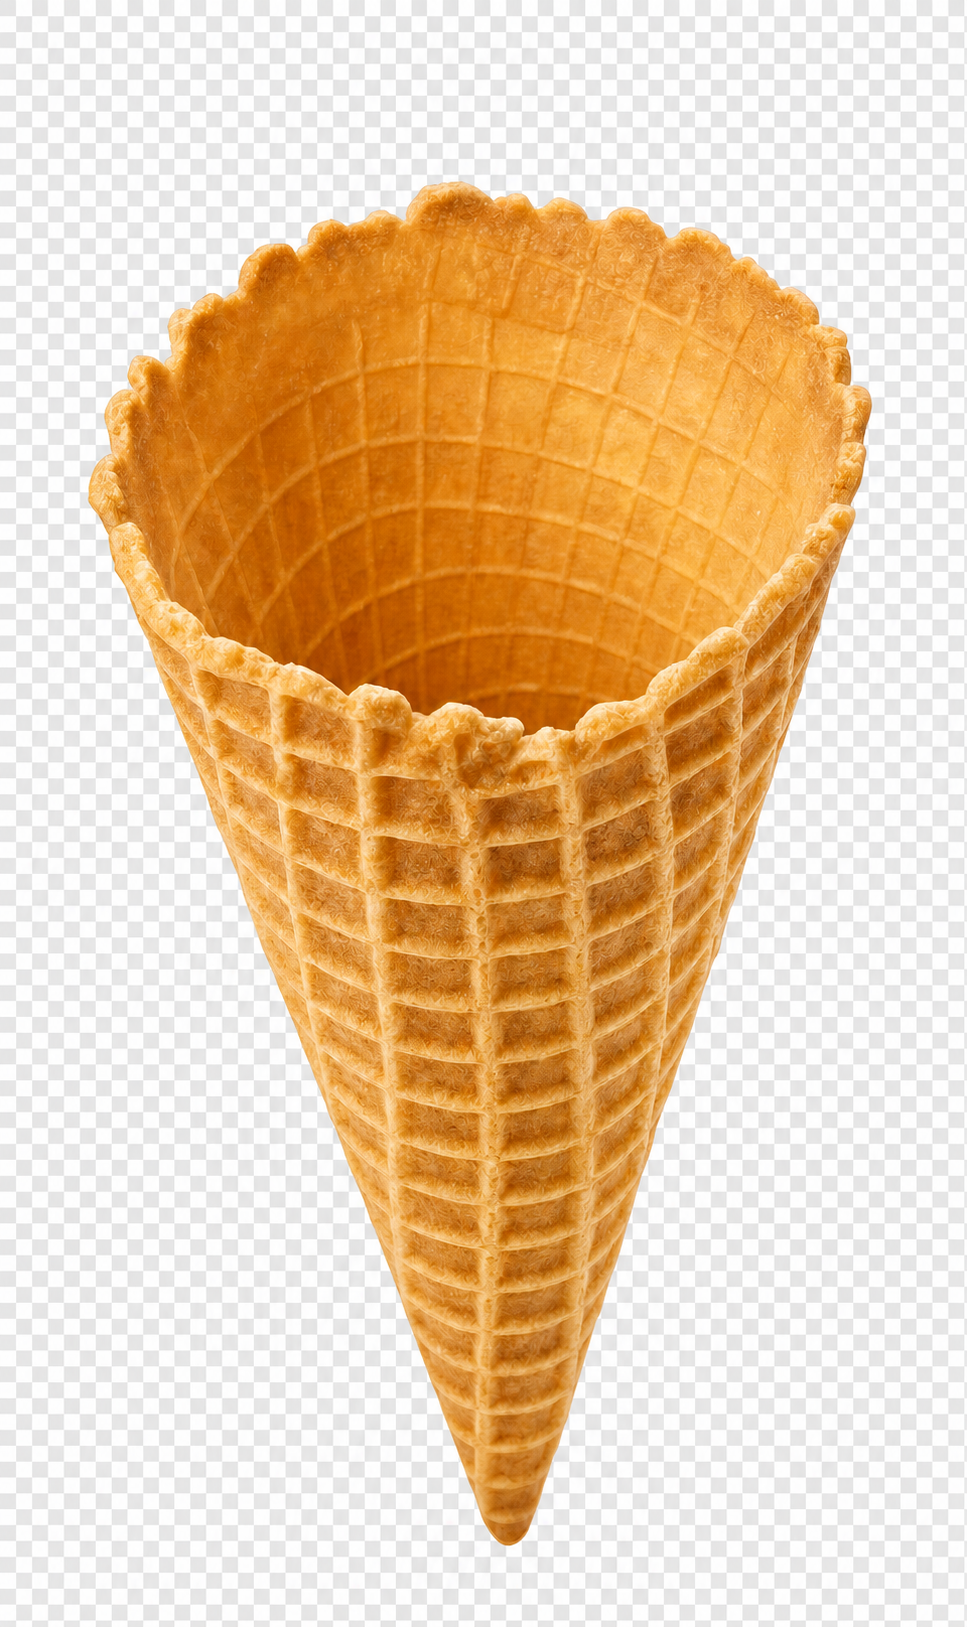
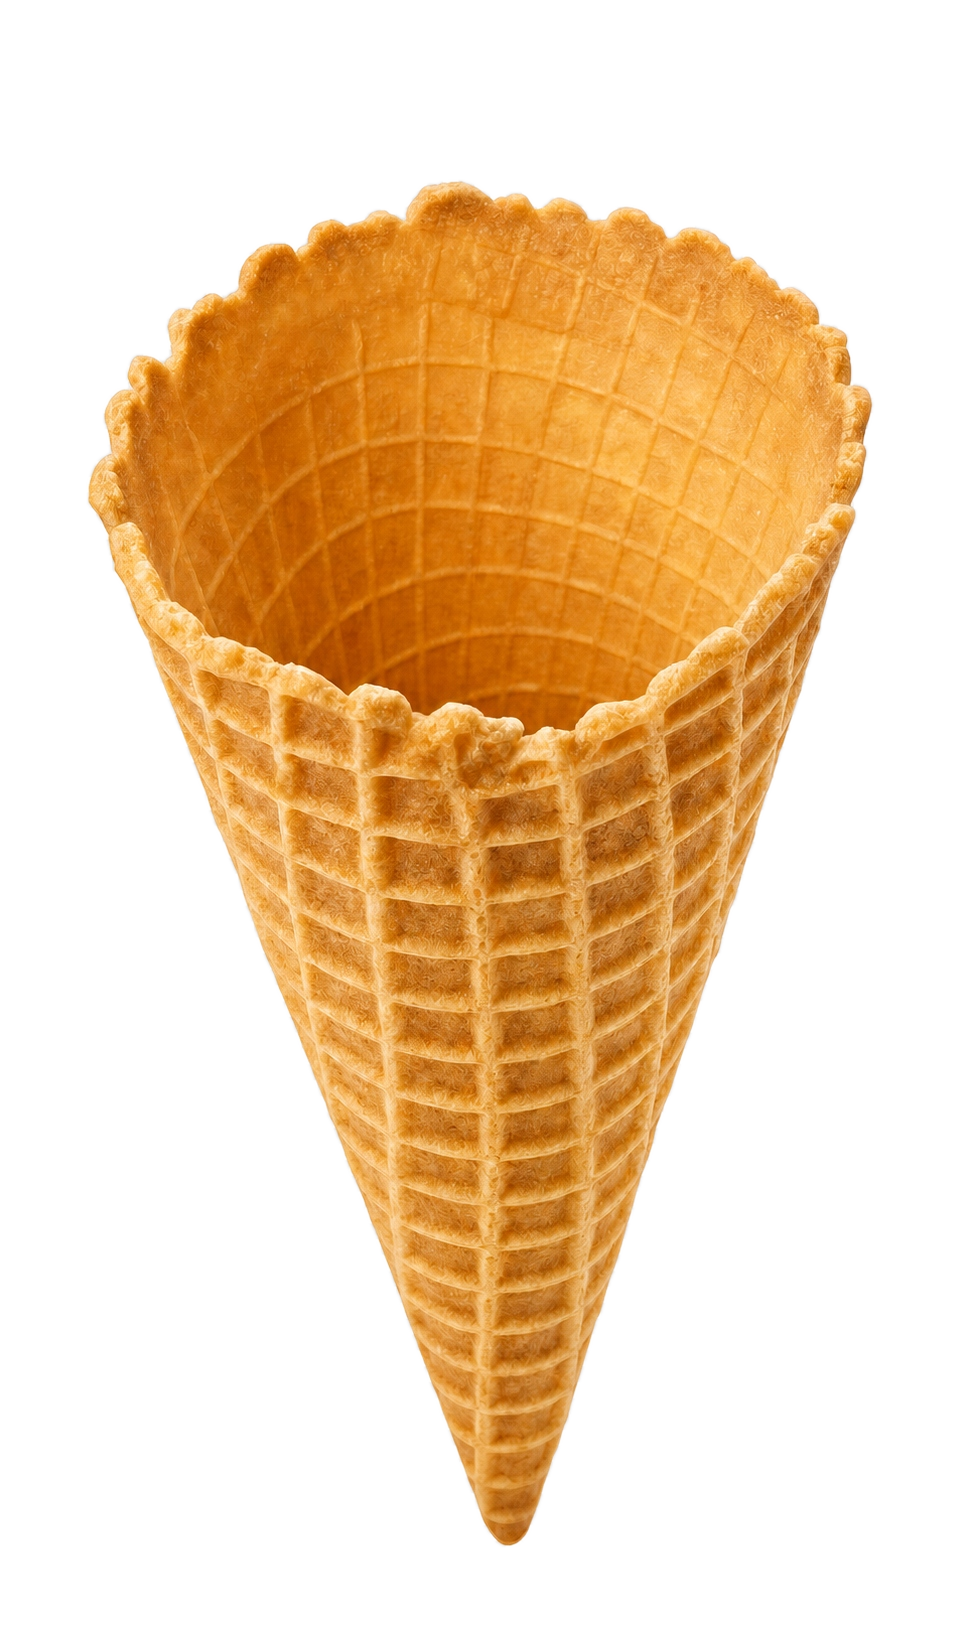
feature/02-page: фикс промпта: мобилка версия 3/0

Changed region(s): [[0.0, 0.0, 1.0, 1.0]]

diff --git a/css/style.css b/css/style.css
@@ -85,7 +85,7 @@
   --space-12: 96px;
 
   /* Radius */
-  --radius-block: 96px;
+  --radius-block: clamp(40px, 8vw + 16px, 96px);
   --radius-round: 50%;
   --radius-pill: 9999px;
 
@@ -319,7 +319,7 @@ button {
   font-family: var(--font-display);
   font-weight: 700;
   font-size: var(--text-h1-mobile);
-  line-height: var(--leading-tight);
+  line-height: var(--leading-snug);
   letter-spacing: var(--tracking-h1);
   text-transform: uppercase;
   text-align: center;
@@ -377,9 +377,9 @@ button {
 
 /* The flavor grid keeps the container max-width + inner gutters, centered. */
 .catalog__list {
-  max-width: 1500px;
-  margin-inline: auto;
-  padding-inline: var(--space-container);
+  max-width: none;
+  margin-inline: 0;
+  padding-inline: 0;
 }
 
 .catalog__pill {
@@ -405,7 +405,7 @@ button {
 .catalog__list {
   display: grid;
   grid-template-columns: repeat(2, 1fr);
-  gap: var(--space-6) var(--space-3);
+  gap: 0;
 }
 
 /* ---- card (flavor) ---- */
@@ -440,8 +440,10 @@ button {
 .card__media {
   order: -1;
   position: relative;
-  width: var(--size-ice-cream-mobile);
-  height: var(--size-ice-cream-mobile);
+  width: 100%;
+  max-width: clamp(150px, 36vw, 277px);
+  height: auto;
+  aspect-ratio: 1;
   border-radius: var(--radius-round);
   overflow: hidden;
   background: var(--gradient-scoop-sheen),
@@ -836,12 +838,123 @@ button {
 }
 
 
+
+/* =========================================================
+   Mobile (<=767): two-column layout + flavor slider
+   ========================================================= */
+@media (max-width: 767px) {
+  /* Full-bleed slider with an EXACT half-card peek on both sides at any width.
+     Everything is derived from a single card-width var so the visible fraction
+     of the neighbouring scoops never drifts when the screen resizes. */
+  .catalog__list {
+    --slide-card: 64vw;            /* width of one card */
+    --slide-gap: var(--space-3);   /* gap between cards */
+    display: flex;
+    gap: var(--slide-gap);
+    /* Side gutter = half a card + one gap, so a snapped card is centered and
+       exactly half of each neighbour shows past the screen edges. */
+    padding-inline: calc(var(--slide-card) / 2 + var(--slide-gap));
+    overflow-x: auto;
+    scroll-snap-type: x mandatory;
+    scroll-behavior: smooth;
+    -webkit-overflow-scrolling: touch;
+    /* Hide the horizontal scrollbar (Firefox/IE + WebKit below). */
+    scrollbar-width: none;
+    -ms-overflow-style: none;
+  }
+
+  .catalog__list::-webkit-scrollbar {
+    display: none;
+  }
+
+  .catalog__card {
+    flex: 0 0 var(--slide-card);
+    scroll-snap-align: center;
+  }
+
+  /* ---- mobile fine-tuning ---- */
+  /* The pink slider panel has no rounded corners on mobile. */
+  .catalog__panel {
+    border-radius: 0;
+  }
+
+  /* Build button spans the full window width. */
+  .builder__button {
+    max-width: none;
+  }
+
+  /* Builder total price sits in the flow, ~32px above the button. */
+  .builder__price {
+    position: static;
+    top: auto;
+    left: auto;
+    margin-bottom: var(--space-4);
+    text-align: center;
+  }
+
+  /* Slider card width. */
+  .catalog__list {
+    --slide-card: 50vw;
+  }
+
+  /* Card: no outer margins; title spaced 16px under the image. */
+  .card {
+    margin: 0;
+  }
+
+  .card__title {
+    margin-top: var(--space-2);
+  }
+
+  /* Price plate: 24px up from the photo bottom, flush to the side (left 0). */
+  .card__price {
+    left: 0;
+    bottom: 24px;
+  }
+
+  /* Slider list: small vertical margins (32px top & bottom). */
+  .catalog__list {
+    margin-block: var(--space-4);
+  }
+}
+
+
 /* =========================================================
    Tablet — 768+
    ========================================================= */
 @media (min-width: 768px) {
   :root {
     --space-container: 64px;
+  }
+
+  /* Two columns from tablet up: builder on the right, catalog on the left,
+     builder stretched to the full row height. */
+  .catalog__inner {
+    flex-direction: row-reverse;
+    align-items: stretch;
+    gap: var(--space-6);
+  }
+
+  .catalog__builder {
+    flex: 0 0 300px;
+    display: flex;
+    flex-direction: column;
+    justify-content: center;
+  }
+
+  .catalog__panel {
+    flex: 1 1 auto;
+  }
+
+  /* Flavor list returns to a static grid (no slider) from tablet up. */
+  .catalog__list {
+    display: grid;
+    padding-inline: 0;
+    overflow: visible;
+  }
+
+  .catalog__card {
+    flex: initial;
   }
 
   /* Undo the mobile cone clipping — show the full ice cream again */
@@ -943,13 +1056,13 @@ button {
     max-width: none;
     margin-inline: 0;
     padding-inline: 0;
-    grid-template-columns: repeat(3, 1fr);
-    gap: var(--space-10) var(--space-6);
+    grid-template-columns: repeat(2, 1fr);
+    gap: 0;
+    justify-content: center;
   }
 
   .card__media {
-    width: var(--size-ice-cream);
-    height: var(--size-ice-cream);
+    max-width: var(--size-ice-cream-mobile);
   }
 
   .card__price {
@@ -962,6 +1075,20 @@ button {
 
   .builder__cone-img {
     width: 220px;
+  }
+}
+
+
+/* =========================================================
+   Wide — 1200+ : larger scoops in the catalog cards
+   ========================================================= */
+@media (min-width: 1200px) {
+  .card__media {
+    max-width: var(--size-ice-cream);
+  }
+
+  .catalog__list {
+    grid-template-columns: repeat(auto-fit, minmax(267px, 1fr));
   }
 }
 

diff --git a/js/main.js b/js/main.js
@@ -267,6 +267,7 @@
     checkout();
   });
 
+
   const builderEl = document.querySelector('[data-builder]');
   if (builderEl) builderEl.classList.add('builder--ready');
 